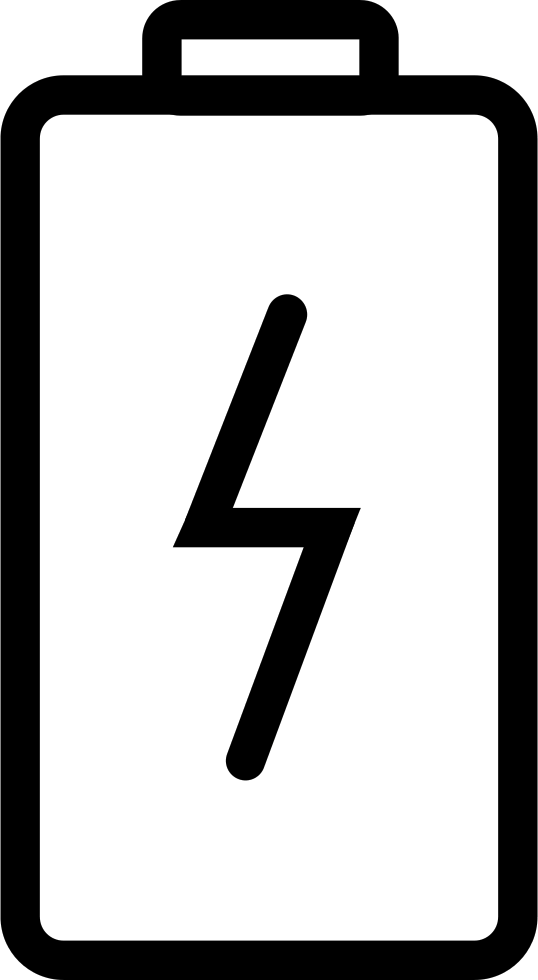
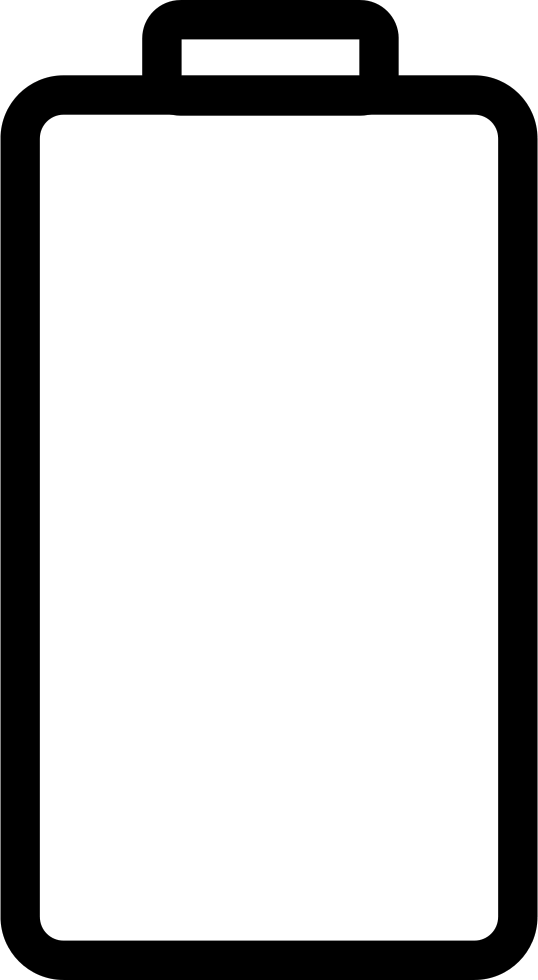
rough draft of cell viz-need to add controls

Changed region(s): [[0.3271, 0.2755, 0.684, 0.7959]]

diff --git a/boards/BMS/GUI/GUI.py b/boards/BMS/GUI/GUI.py
@@ -25,13 +25,9 @@ Builder.load_string('''
             source: "bat.png"
             pos: self.pos
             size: self.size
-    Label:
-        id:cell_text
-        center:root.center
-        text: 'Cell'
-        color: 0,0,0,1
 
 <Rec>:
+    cellSize:2,2
     bgcolor:0.0,1.0,0.0,0.8
     canvas:
         Color:
@@ -39,13 +35,22 @@ Builder.load_string('''
         Rectangle:
             pos:self.pos
             size:self.size
+        Color: #Defines color of the PNG
+            rgba: 1, 1, 1, 1
+        Rectangle:
+            source: "bat.png"
+            pos: self.pos
+            size: self.cellSize
+
     Label:
         id:cell_text
         color:0,0,0,1
         text:root.voltage
-        text_size: root.width, None
+        text_size: root.width,None
+        font_size:12
+        halign:'center'
         size: self.texture_size
-        pos:root.pos
+        pos:(root.pos[0],root.pos[1]+3)
 
 <ButtonsGalore>:
     grid: Grid
@@ -68,14 +73,14 @@ series = 16
 sTotal = segments * series
 
 # Threshold colours
-red =  (1,0,0,0.8) # Less than 2.5V
-green =(0,1,0,0.8) # Between 2.5V and 4.2V
-blue = (0,0,1,0.8) # Above 4.2V
+underVoltage = (255/255,240/255,36/255,1) # Yellow Less than 2.5V
+justRight =    (21/255,232/255,26/255,1) # Green Between 2.5V and 4.2V
+overVoltage =  (255/255,43/255,23/255,1) # Red  Above 4.2V
 
 
 cValues = [100]*sTotal
 for i in range(sTotal):
-    cValues[i] = random.randrange(20,45)/10
+    cValues[i] = random.randrange(23,45)/10
 print(cValues)
 
 class ButtonsGalore(BoxLayout):
@@ -83,34 +88,18 @@ class ButtonsGalore(BoxLayout):
 
 class Rec(Widget):
     voltage = StringProperty()
-    pass
+
 
 class myCell(Widget):
     pass
 
-# class allCells(Widget):
-
-#     def __init__(self,**kwargs):
-#         super(allCells,self).__init__(**kwargs)
-#         self.bind(pos=self.update_canvas)
-#         self.bind(size=self.update_canvas)
-#         self.update_canvas()
-
-#     def update_canvas(self,*args):
-#         # need to reset everything
-#         self.canvas.clear()
-#         with self.canvas:
-#             # Instruction
-#             Color(0,1,0,1)
-
-#             self.rect = Rectangle(pos=self.pos,size=self.size)
 
 class cellDisplay(Widget):
 
     def __init__(self, **kwargs):
         super(cellDisplay, self).__init__(**kwargs)
         # self.cells = 96*[Rectangle(pos=self.center,size=(self.width/4,self.height/4))]
-        self.cells = 96*[Rec()]
+        self.cells = sTotal*[Rec()]
         
         with self.canvas:
 
@@ -123,34 +112,45 @@ class cellDisplay(Widget):
                   size=self.update_canvas)
 
     def update_canvas(self, *args):
-        xPartition = self.width/16
-        yPartition = self.height/6
-        hPartition = self.height/6
-        wPartition = self.width/10
+        # Offsets and refernces for the cells locatons
+        xCellBlockOffset = 45
+        yCellBlockOffset = 10
+        offSet = 0
+        xPartition = (self.width -xCellBlockOffset)/series
+        yPartition = (self.height-yCellBlockOffset)/segments
+        hPartition = (self.height-yCellBlockOffset)/segments
+        wPartition = (self.width -xCellBlockOffset)/(segments+4)
+        # I don't want 2.5V and below to be invisible 
+        # 300/340 is the height of the cell png before it goes above
+        lowerVoltageOffset = (50/340)*(hPartition-30)
+        fullCellHeight = (hPartition-30)*(250/340)
         for i in range(len(cValues)):
+            # Retrive cell voltage
             val = cValues[i]
-            x_loc = xPartition*(i%16)+10
-            y_loc = yPartition*math.floor(i/16)+15
-            h = (hPartition-30)*(val/4.2)
+            x_loc = xPartition*(i%series)+xCellBlockOffset
+            y_loc = yPartition*math.floor(i/series)+yCellBlockOffset
+            pcFull = min(max((val-2.5),.01),1.8)/1.7
+            h = fullCellHeight*pcFull+lowerVoltageOffset
             w = (wPartition-20)
-            self.cells[i].pos=(x_loc,y_loc)
-            self.cells[i].size=(w,h)
+            self.cells[i].pos=(x_loc+5,y_loc+5)
+            self.cells[i].size=(w-2,h-2)
             self.cells[i].voltage = str(val)
+            self.cells[i].cellSize = ((wPartition-20),(hPartition-30))
 
             # self.volts[i].pos=(x_loc,y_loc)
             # self.volts[i].text=str(val)
 
             if(val<2.5):
-                self.cells[i].bgcolor = red
-            elif(val<4.2):
-                self.cells[i].bgcolor = green
+                self.cells[i].bgcolor = underVoltage
+            elif(val<=4.2):
+                self.cells[i].bgcolor = justRight
             else:
-                self.cells[i].bgcolor = blue
+                self.cells[i].bgcolor = overVoltage
 
 
 
 
-class FirstApp(App):
+class OlinBMSApp(App):
 
     def disable(self, instance, *args):
 
@@ -161,13 +161,13 @@ class FirstApp(App):
         instance.text = "I am disabled!"
 
     def build(self):
-        con = FloatLayout(size_hint=(.6,1))
+        con = FloatLayout(size_hint=(.7,1))
         con.add_widget(cellDisplay())        
         # return con
         g = ButtonsGalore()
 
         superBox = BoxLayout(orientation='horizontal',padding=10,spacing=10)
-        controlBox = BoxLayout(orientation='vertical',size_hint=(.4,1))
+        controlBox = BoxLayout(orientation='vertical',size_hint=(.3,1))
 
         button1 = Button(text='One')
         button2 = Button(text='Two')
@@ -191,4 +191,4 @@ class FirstApp(App):
 
 
 if __name__ == '__main__':
-    FirstApp().run()
+    OlinBMSApp().run()
